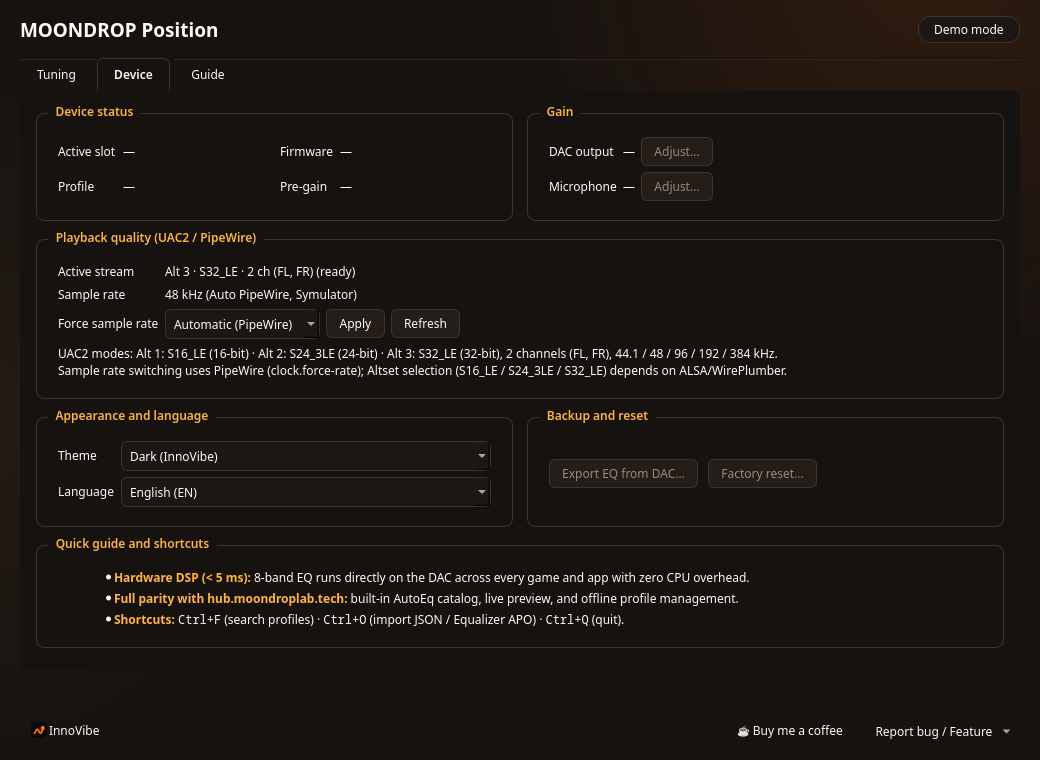
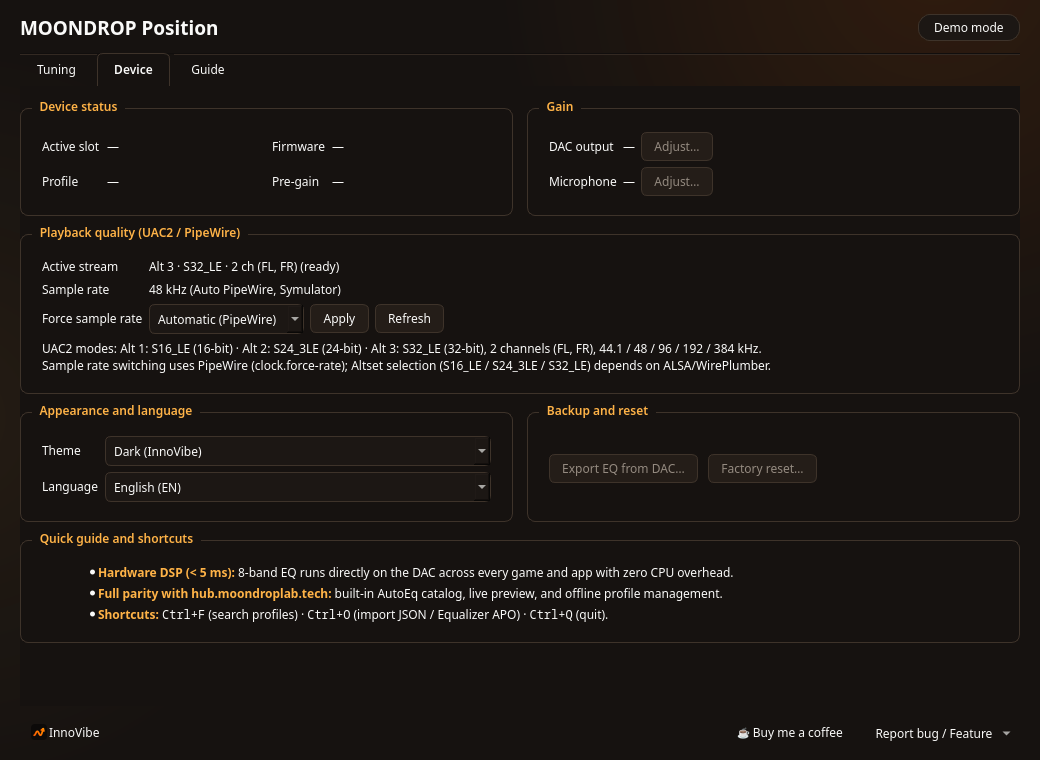
Refine Tuning tab layout: symmetric cards, aligned grid, tight footer, and prominent Edit EQ

diff --git a/skrypty/position_gui.py b/skrypty/position_gui.py
@@ -33,6 +33,7 @@ from PySide6.QtCore import (
     QProcess,
     QRunnable,
     QSaveFile,
+    QSize,
     QStandardPaths,
     Qt,
     QThreadPool,
@@ -50,6 +51,7 @@ from PySide6.QtGui import (
     QPainterPath,
     QPalette,
     QPen,
+    QPixmap,
     QRadialGradient,
     QShortcut,
 )
@@ -64,6 +66,7 @@ from PySide6.QtWidgets import (
     QDoubleSpinBox,
     QFileDialog,
     QFormLayout,
+    QFrame,
     QGridLayout,
     QGroupBox,
     QHBoxLayout,
@@ -108,6 +111,32 @@ PRIMARY_ACTION_STYLE = (
     " border: 1px solid palette(highlight); border-radius: 6px; padding: 7px 18px; font-weight: 600; }"
     "QPushButton:focus { border: 1px solid palette(text); }"
 )
+SECONDARY_ACCENT_STYLE = (
+    "QPushButton:enabled { background: palette(button); color: palette(link);"
+    " border: 1px solid palette(highlight); border-radius: 6px; padding: 6px 14px; font-weight: 600; }"
+    "QPushButton:enabled:hover { background: palette(alternate-base); border-color: palette(link); }"
+    "QPushButton:focus { border: 1px solid palette(text); }"
+)
+
+
+def build_eq_sliders_icon(accent_hex: str) -> QIcon:
+    """Rysuje wektorową ikonę suwaków korektora EQ w kolorze akcentu motywu."""
+    size = 32
+    pixmap = QPixmap(size, size)
+    pixmap.fill(Qt.GlobalColor.transparent)
+    painter = QPainter(pixmap)
+    painter.setRenderHint(QPainter.RenderHint.Antialiasing)
+    color = QColor(accent_hex)
+    painter.setPen(QPen(color, 2.4, Qt.PenStyle.SolidLine, Qt.PenCapStyle.RoundCap))
+    painter.setBrush(color)
+    for x, knob_y in ((7.5, 11.0), (16.0, 21.0), (24.5, 14.0)):
+        painter.drawLine(QPointF(x, 5.5), QPointF(x, 26.5))
+        painter.drawEllipse(QPointF(x, knob_y), 3.1, 3.1)
+    painter.end()
+    pixmap.setDevicePixelRatio(2.0)
+    return QIcon(pixmap)
+
+
 APP_STYLE = """
 QGroupBox {
     border: 1px solid palette(mid);
@@ -181,6 +210,21 @@ QListWidget::item, QListView::item {
 QListWidget::item:selected, QListView::item:selected {
     background: palette(highlight);
     color: palette(highlighted-text);
+}
+QSplitter::handle {
+    background: transparent;
+    border: none;
+}
+QFrame#sourceCard, QFrame#previewCard {
+    border: 1px solid palette(mid);
+    border-radius: 8px;
+    background: palette(base);
+}
+QFrame#sourceCard QListWidget, QFrame#sourceCard QListView {
+    border: none;
+    border-radius: 6px;
+    padding: 2px;
+    background: transparent;
 }
 QTabWidget::pane {
     border-top: 1px solid palette(mid);
@@ -2219,6 +2263,22 @@ class AutoEqPanel(QWidget):
             self.process.waitForFinished(1000)
 
 
+class FeedbackLabel(QLabel):
+    """Etykieta komunikatów statusu ukrywana automatycznie, gdy jest pusta."""
+
+    def __init__(self, text: str = ""):
+        super().__init__(text)
+        self.setVisible(bool(text))
+
+    def setText(self, text: str) -> None:
+        super().setText(text)
+        self.setVisible(bool(text))
+
+    def clear(self) -> None:
+        super().clear()
+        self.setVisible(False)
+
+
 class ProfilesWindow(QWidget):
     def __init__(self, demo: bool, library_directory: Path | None = None):
         super().__init__()
@@ -2260,8 +2320,8 @@ class ProfilesWindow(QWidget):
         self.tray_notice_shown = False
 
         layout = QVBoxLayout(self)
-        layout.setContentsMargins(20, 16, 20, 14)
-        layout.setSpacing(15)
+        layout.setContentsMargins(20, 14, 20, 12)
+        layout.setSpacing(12)
         heading = QLabel("MOONDROP Position")
         font = heading.font()
         font.setPointSizeF(font.pointSizeF() * 1.55)
@@ -2281,7 +2341,7 @@ class ProfilesWindow(QWidget):
 
         device_page = QWidget()
         device_layout = QGridLayout(device_page)
-        device_layout.setContentsMargins(16, 12, 16, 10)
+        device_layout.setContentsMargins(0, 12, 0, 0)
         device_layout.setHorizontalSpacing(14)
         device_layout.setVerticalSpacing(8)
         device_layout.setColumnStretch(0, 1)
@@ -2421,13 +2481,15 @@ class ProfilesWindow(QWidget):
 
         self.profile_page = QWidget()
         profile_layout = QVBoxLayout(self.profile_page)
-        profile_layout.setContentsMargins(18, 16, 18, 16)
-        profile_layout.setSpacing(12)
+        profile_layout.setContentsMargins(0, 12, 0, 0)
+        profile_layout.setSpacing(0)
         library_split = QSplitter(Qt.Orientation.Horizontal)
         library_split.setChildrenCollapsible(False)
-        source_panel = QWidget()
+        library_split.setHandleWidth(16)
+        source_panel = QFrame()
+        source_panel.setObjectName("sourceCard")
         source_layout = QVBoxLayout(source_panel)
-        source_layout.setContentsMargins(0, 0, 0, 0)
+        source_layout.setContentsMargins(12, 12, 12, 10)
         source_layout.setSpacing(8)
         source_buttons = QHBoxLayout()
         source_buttons.setSpacing(0)
@@ -2471,11 +2533,52 @@ class ProfilesWindow(QWidget):
         self.sources.addWidget(library)
         self.autoeq_panel = AutoEqPanel(self, self.library_directory.parent / "autoeq")
         self.sources.addWidget(self.autoeq_panel)
+        source_divider = QWidget()
+        source_divider.setFixedHeight(1)
+        source_divider.setStyleSheet("background: palette(mid);")
+        source_layout.addWidget(source_divider)
+        source_actions = QHBoxLayout()
+        source_actions.setContentsMargins(0, 2, 0, 0)
+        source_actions.setSpacing(8)
+        self.library_actions = QWidget()
+        library_actions = QHBoxLayout(self.library_actions)
+        library_actions.setContentsMargins(0, 0, 0, 0)
+        library_actions.setSpacing(8)
+        self.add_button = QToolButton()
+        self.add_button.setText(tr("actions.add_profile"))
+        self.add_button.setPopupMode(QToolButton.ToolButtonPopupMode.InstantPopup)
+        add_menu = QMenu(self.add_button)
+        self.new_profile_action = add_menu.addAction(tr("actions.new_empty"), lambda: self.edit_profile(new=True))
+        self.import_profile_action = add_menu.addAction(tr("actions.import_profile"), self.import_profile)
+        self.add_button.setMenu(add_menu)
+        self.more_button = QToolButton()
+        self.more_button.setText(tr("actions.more"))
+        self.more_button.setPopupMode(QToolButton.ToolButtonPopupMode.InstantPopup)
+        more_menu = QMenu(self.more_button)
+        self.duplicate_action = more_menu.addAction(tr("actions.duplicate"), lambda: self.edit_profile(duplicate=True))
+        self.export_action = more_menu.addAction(tr("actions.export_selected"), self.export_selected)
+        more_menu.addSeparator()
+        self.delete_action = more_menu.addAction(tr("actions.delete_profile"), self.delete_selected)
+        self.more_button.setMenu(more_menu)
+        library_actions.addWidget(self.add_button)
+        library_actions.addWidget(self.more_button)
+        source_actions.addWidget(self.library_actions)
+        source_actions.addWidget(self.autoeq_panel.generate)
+        source_actions.addWidget(self.autoeq_panel.cancel)
+        source_actions.addStretch()
+        source_layout.addLayout(source_actions)
         library_split.addWidget(source_panel)
         preview_panel = QWidget()
+        preview_panel.setStyleSheet("background: transparent;")
         preview = QVBoxLayout(preview_panel)
-        preview.setContentsMargins(12, 0, 4, 0)
+        preview.setContentsMargins(14, 12, 14, 10)
         preview.setSpacing(6)
+        preview_header = QHBoxLayout()
+        preview_header.setContentsMargins(0, 0, 0, 0)
+        preview_header.setSpacing(12)
+        preview_header_text = QVBoxLayout()
+        preview_header_text.setContentsMargins(0, 0, 0, 0)
+        preview_header_text.setSpacing(2)
         self.preview_title = QLabel()
         self.preview_title.setTextFormat(Qt.TextFormat.PlainText)
         self.preview_title.setWordWrap(True)
@@ -2483,12 +2586,32 @@ class ProfilesWindow(QWidget):
         title_font.setPointSizeF(title_font.pointSizeF() * 1.2)
         title_font.setBold(True)
         self.preview_title.setFont(title_font)
-        preview.addWidget(self.preview_title)
+        preview_header_text.addWidget(self.preview_title)
         self.profile_info = QLabel()
         self.profile_info.setTextFormat(Qt.TextFormat.PlainText)
         self.profile_info.setWordWrap(True)
         self.profile_info.setAlignment(Qt.AlignmentFlag.AlignTop | Qt.AlignmentFlag.AlignLeft)
-        preview.addWidget(self.profile_info)
+        preview_header_text.addWidget(self.profile_info)
+        preview_header.addLayout(preview_header_text, 1)
+        self.save_fit_button = QPushButton(tr("actions.save_later"))
+        self.save_fit_button.setMinimumHeight(32)
+        self.edit_button = QPushButton(tr("actions.edit_eq"))
+        self.edit_button.setStyleSheet(SECONDARY_ACCENT_STYLE)
+        self.edit_button.setMinimumHeight(32)
+        self.edit_button.setIconSize(QSize(16, 16))
+        self.apply_button = QPushButton(tr("actions.apply_dac"))
+        self.apply_button.setStyleSheet(PRIMARY_ACTION_STYLE)
+        self.apply_button.setMinimumWidth(140)
+        self.apply_button.setMinimumHeight(32)
+        self.apply_button.setEnabled(False)
+        preview_header_actions = QHBoxLayout()
+        preview_header_actions.setContentsMargins(0, 0, 0, 0)
+        preview_header_actions.setSpacing(8)
+        preview_header_actions.addWidget(self.save_fit_button)
+        preview_header_actions.addWidget(self.edit_button)
+        preview_header_actions.addWidget(self.apply_button)
+        preview_header.addLayout(preview_header_actions)
+        preview.addLayout(preview_header)
         self.fr_title_label = QLabel(tr("plot.fr_title"))
         preview.addWidget(self.fr_title_label)
         self.preview_plot = ResponsePlot(include_preamp=False)
@@ -2512,10 +2635,11 @@ class ProfilesWindow(QWidget):
         self.plot_legend.setTextFormat(Qt.TextFormat.PlainText)
         self.plot_legend.setWordWrap(True)
         self.plot_legend.setAlignment(Qt.AlignmentFlag.AlignTop | Qt.AlignmentFlag.AlignLeft)
-        self.plot_legend.setFixedHeight(self.plot_legend.fontMetrics().lineSpacing() * 3 + 8)
+        self.plot_legend.setFixedHeight(self.plot_legend.fontMetrics().lineSpacing() * 2 + 4)
         preview.addWidget(self.plot_legend)
         preview_scroll = QScrollArea()
-        preview_scroll.setFrameShape(QScrollArea.Shape.NoFrame)
+        preview_scroll.setObjectName("previewCard")
+        preview_scroll.viewport().setStyleSheet("background: transparent;")
         preview_scroll.setWidgetResizable(True)
         preview_scroll.setHorizontalScrollBarPolicy(Qt.ScrollBarPolicy.ScrollBarAlwaysOff)
         preview_scroll.setWidget(preview_panel)
@@ -2525,53 +2649,12 @@ class ProfilesWindow(QWidget):
         library_split.setStretchFactor(1, 4)
         library_split.setSizes([360, 640])
         profile_layout.addWidget(library_split, 1)
-        divider = QWidget()
-        divider.setFixedHeight(1)
-        divider.setStyleSheet("background: palette(mid);")
-        profile_layout.addWidget(divider)
-        actions = QHBoxLayout()
-        self.library_actions = QWidget()
-        library_actions = QHBoxLayout(self.library_actions)
-        library_actions.setContentsMargins(0, 0, 0, 0)
-        self.add_button = QToolButton()
-        self.add_button.setText(tr("actions.add_profile"))
-        self.add_button.setPopupMode(QToolButton.ToolButtonPopupMode.InstantPopup)
-        add_menu = QMenu(self.add_button)
-        self.new_profile_action = add_menu.addAction(tr("actions.new_empty"), lambda: self.edit_profile(new=True))
-        self.import_profile_action = add_menu.addAction(tr("actions.import_profile"), self.import_profile)
-        self.add_button.setMenu(add_menu)
-        self.more_button = QToolButton()
-        self.more_button.setText(tr("actions.more"))
-        self.more_button.setPopupMode(QToolButton.ToolButtonPopupMode.InstantPopup)
-        more_menu = QMenu(self.more_button)
-        self.duplicate_action = more_menu.addAction(tr("actions.duplicate"), lambda: self.edit_profile(duplicate=True))
-        self.export_action = more_menu.addAction(tr("actions.export_selected"), self.export_selected)
-        more_menu.addSeparator()
-        self.delete_action = more_menu.addAction(tr("actions.delete_profile"), self.delete_selected)
-        self.more_button.setMenu(more_menu)
-        self.edit_button = QPushButton(tr("actions.edit_eq"))
-        self.apply_button = QPushButton(tr("actions.apply_dac"))
-        self.apply_button.setStyleSheet(PRIMARY_ACTION_STYLE)
-        self.apply_button.setMinimumWidth(148)
-        self.apply_button.setMinimumHeight(34)
-        self.apply_button.setEnabled(False)
-        library_actions.addWidget(self.add_button)
-        library_actions.addWidget(self.more_button)
-        actions.addWidget(self.library_actions)
-        actions.addWidget(self.autoeq_panel.generate)
-        actions.addWidget(self.autoeq_panel.cancel)
-        actions.addWidget(self.edit_button)
-        actions.addStretch()
-        self.save_fit_button = QPushButton(tr("actions.save_later"))
-        actions.addWidget(self.save_fit_button)
-        actions.addWidget(self.apply_button)
-        profile_layout.addLayout(actions)
         self.tabs.addTab(self.profile_page, tr("tab.tuning"))
         self.tabs.addTab(device_scroll, tr("tab.device"))
 
         guide_page = QWidget()
         guide_layout = QVBoxLayout(guide_page)
-        guide_layout.setContentsMargins(18, 14, 18, 14)
+        guide_layout.setContentsMargins(0, 12, 0, 0)
         guide_layout.setSpacing(12)
 
         self.why_box = QGroupBox(tr("help.why_group"))
@@ -2619,7 +2702,7 @@ class ProfilesWindow(QWidget):
         self.import_shortcut.activated.connect(self.import_profile)
         self.quit_shortcut = QShortcut(QKeySequence.StandardKey.Quit, self)
         self.quit_shortcut.activated.connect(self.quit_from_tray)
-        self.feedback = QLabel("")
+        self.feedback = FeedbackLabel("")
         self.feedback.setTextFormat(Qt.TextFormat.PlainText)
         self.feedback.setWordWrap(True)
         layout.addWidget(self.feedback)
@@ -2728,6 +2811,8 @@ class ProfilesWindow(QWidget):
     def update_accent_texts(self) -> None:
         dark = self.palette().window().color().lightness() < 128
         accent = "#ffb347" if dark else "#e5470a"
+        if hasattr(self, "edit_button"):
+            self.edit_button.setIcon(build_eq_sliders_icon(accent))
         if hasattr(self, "tips_label"):
             self.tips_label.setText(tr("device.tips_body", accent=accent))
             self.why_label.setText(tr("help.why_body", accent=accent))
